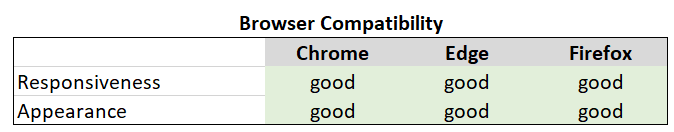
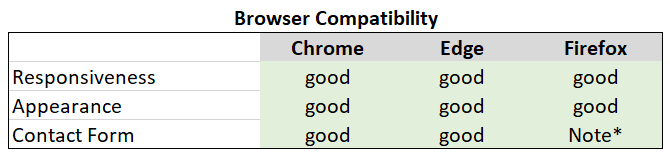
unsolved bugs mentioned in readme.md and screenshot photos added.

Changed region(s): [[0.0, 0.0606, 1.0, 0.9697], [0.8358, 0.5758, 0.9254, 0.7576], [0.4478, 0.5758, 0.5373, 0.7576]]

diff --git a/README.md b/README.md
@@ -101,6 +101,18 @@ Compatibility of the site was tested on Google Chrome, Microsoft Edge and Firefo
 
 <img src="./assets/images/compatibility-test.png" alt="compatibility-test"/>
 
+Note: When use Firefox as browser the email sent message would not stay on the window (just flash and disappear) and the user contact form did not reset after email was sent.
+
+<img src="./assets/images/emai_sent_msg_firefox.png" alt="emai_sent_msg_firefox"/>
+
+I don't understand what had caused the problem in Firefox since there is no issue when using Edge or Chrome or iphone. 
+ 
+<img src="./assets/images/emai_sent_msg_edge.png" alt="emai_sent_msg_edge"/>
+
+<img src="./assets/images/emai_sent_msg_chrome.png" alt="emai_sent_msg_chrome"/>
+
+<img src="./assets/images/emai_sent_msg_iphon.png" alt="emai_sent_msg_iphone"/> 
+
 ### Testing User Stories
 #### As a user
 - I can have a brief glance of the reservations in Northshore when the website was opened.
@@ -150,12 +162,20 @@ Compatibility of the site was tested on Google Chrome, Microsoft Edge and Firefo
     * by signing up on **Join Us" section
 
 ### Bugs
+Solved Bugs
 * Input patterns were not working. Bug fixed with added space.
 * Collage image was too small. On large devices it would leave some blank space on the right. Used online photo enlarger website to enlarger the photo. 
 * Mid-project code validation: Errors of stray start tag were found. Errors were corrected by moving script links inside the body.
 * Final-project code validation: Errors of the element of "Button" must not appear as descendent of the "a" element were found and corrected by rewrite the code.
 * Error of mt-2 is not a margin value was found and corrected by replacing mt-2 with 2px.
 * Fixed the warnings of "maps is already defined" and "map used out of scope" by moving map declaration outside of if statement.
+
+Unsolved Bugs
+* Console error. I had searched online and asked help from tutor service but stile haven't find the solution to solve this error.
+
+<img src="./assets/images/console_error.png" alt="consoleError"/>
+
+* Contact Form won't reset and email sent message won't stay on the screen. See note and screenshots in Testing Browser Compatibility section.
 
 ## Deployment
 The website was deployed to GitHub pages. Link to the site is [here](https://github.com/suping106/MS2-NorthShore-Reservations).
